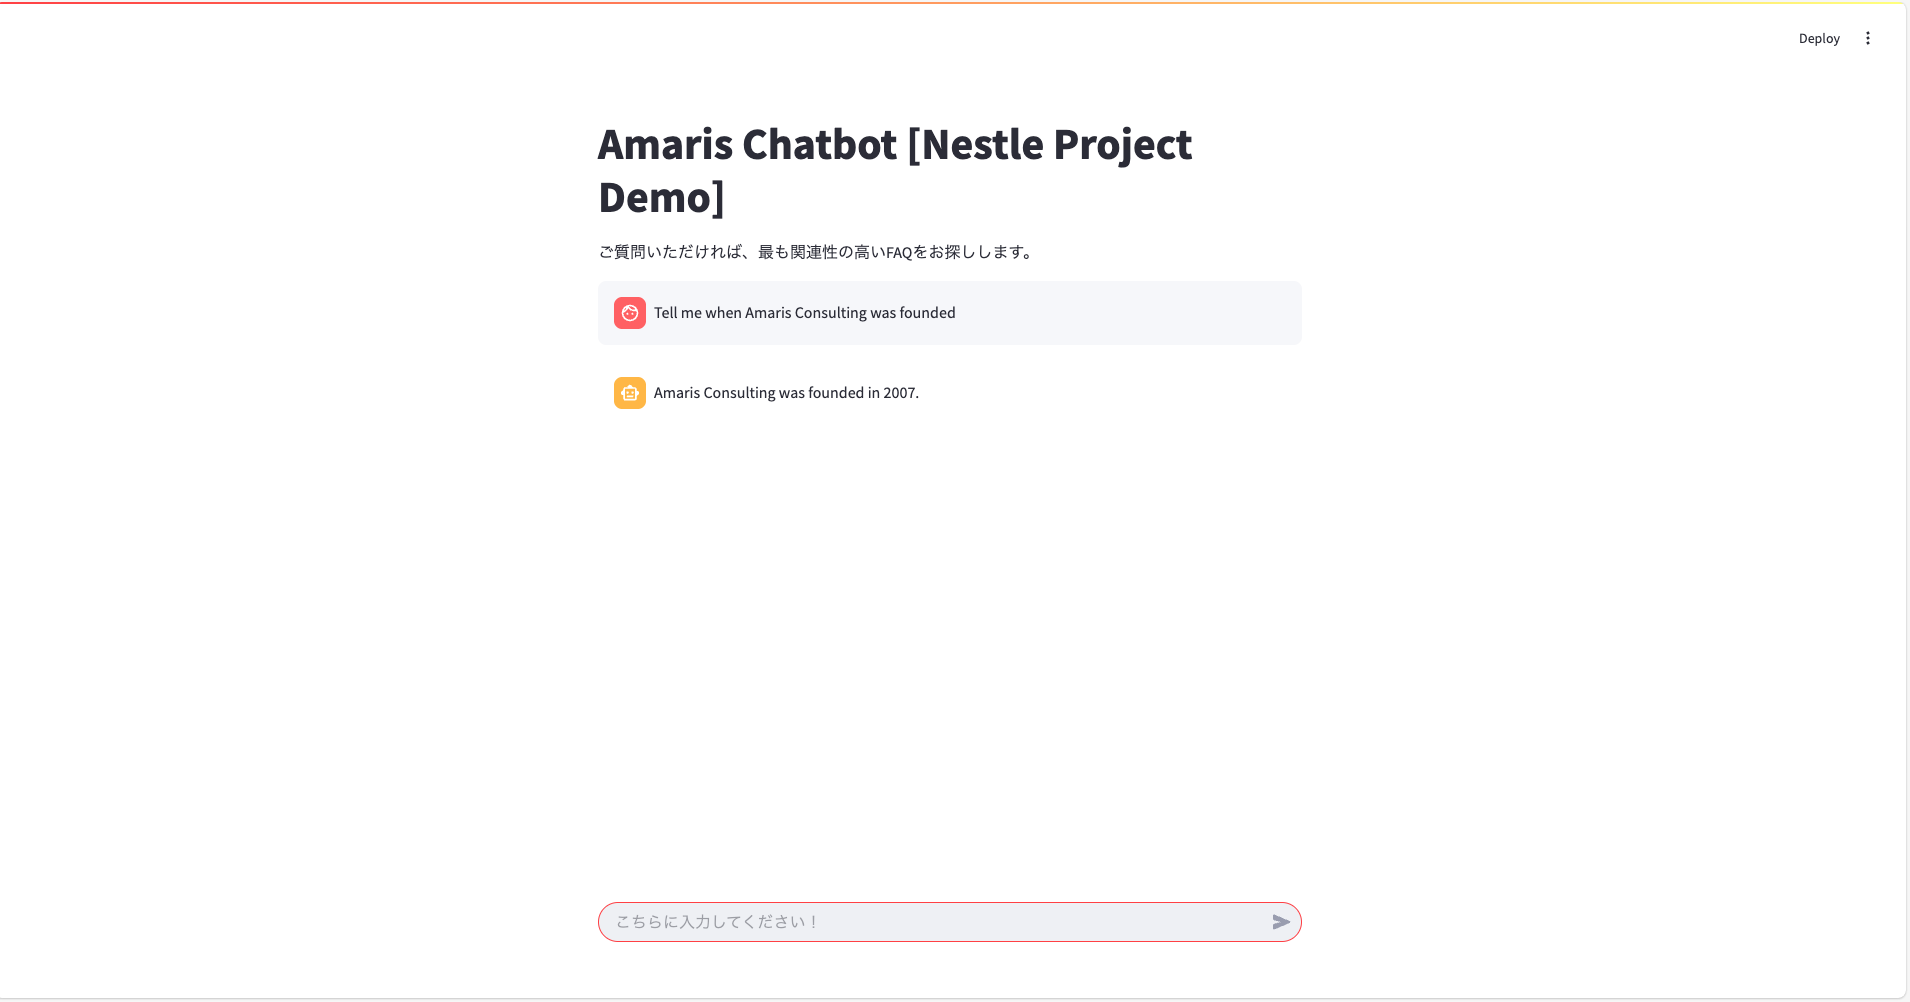
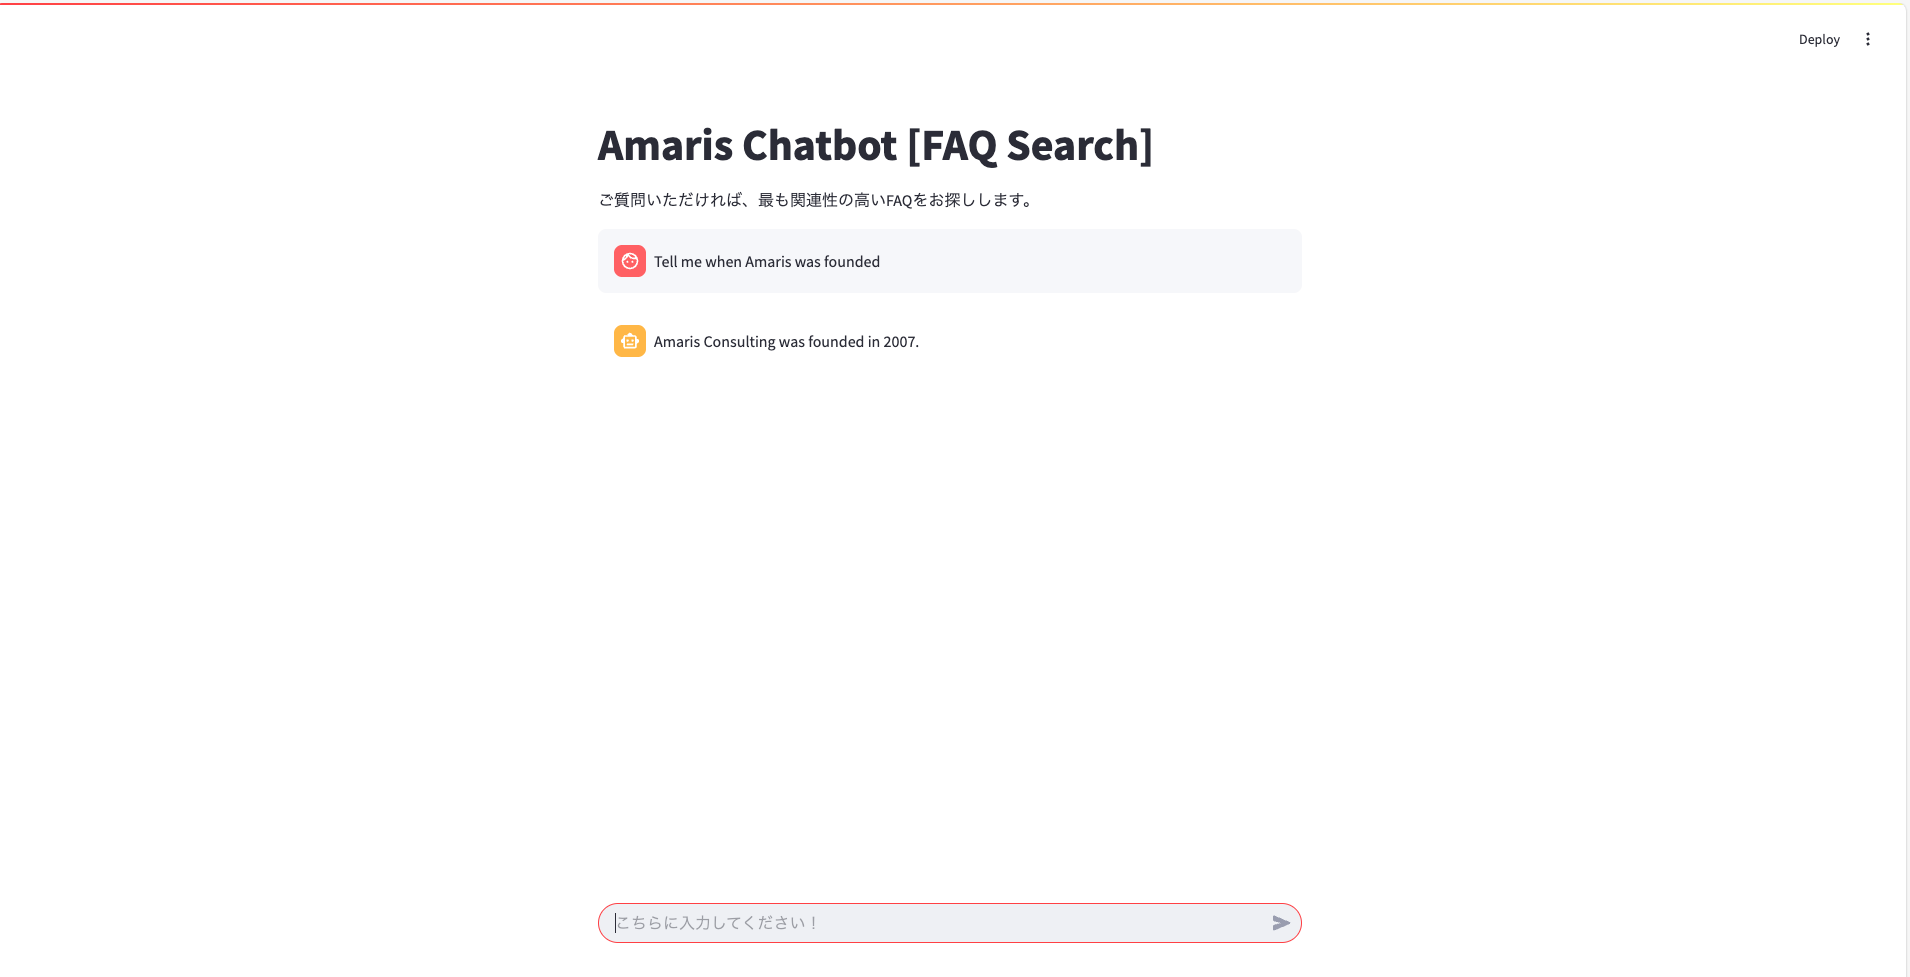
remove unnecessary information

diff --git a/amaris_conversational_streamlit_v2.py b/amaris_conversational_streamlit_v2.py
@@ -63,7 +63,7 @@ def generate_response(query, retrieved_docs, conversation_history):
 
 # Streamlit UI for chatting
 def chat_ui():
-    st.title("Amaris Chatbot [Nestle Project Demo]")
+    st.title("Amaris Chatbot [FAQ Search]")
     st.write("ご質問いただければ、最も関連性の高いFAQをお探しします。")
 
     if 'conversation_history' not in st.session_state:

diff --git a/README.md b/README.md
@@ -45,10 +45,7 @@ pip install -r requirements.txt
 See INDEXING.md for how to create the vector database from your dataset.
 
 3. Run the App
-bash
-Copy
-Edit
-streamlit run chatbot_app.py
+```streamlit run chatbot_app.py```
 Then open your browser at http://localhost:8501.
 
 📄 Sample Use Case
